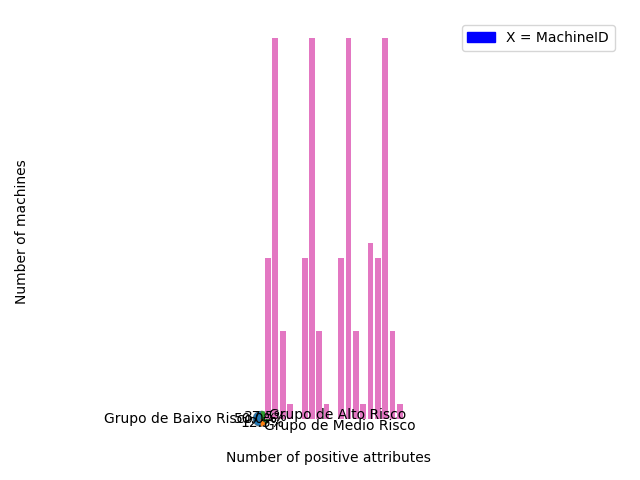
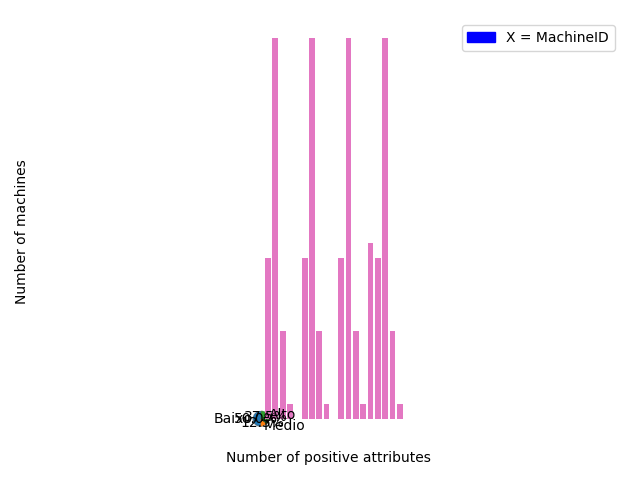
Starting the work with the notifications table and functions

Changed region(s): [[0.4062, 0.8438, 0.6562, 0.9062], [0.1562, 0.8438, 0.375, 0.9062]]

diff --git a/templates/index.html b/templates/index.html
@@ -1,1 +1,88 @@
-<div>Teste</div>
+{% extends 'admin/master.html' %}
+{% block head_css %}
+{{ super() }}
+
+{% endblock head_css %}
+
+
+{% block body %}
+{{ super() }}
+				<div class="col-lg-3 col-md-6">
+					<div class ="panel panel-primary">
+						<div class="panel-heading">
+							<div class="row">
+								<div class="col-xs-3">
+									<i class="fa fa-comments fa-5x"></i>
+								</div>
+								<div class="col-xs-9 text-right">
+									<div class="huge">26</div>
+									<div>Maquinas compliance {{doido}} {{ doido }}</div>
+								</div>
+							</div>
+						</div>
+						<div>
+							<a href="#"><span class="pull-left">
+								<span class="panel-footer">
+									
+								</span>
+							</span></a>
+						</div>
+						<img src="/static/safe_pie.png" alt="" class="img-responsive center-block" />
+						<a href="#">
+							<div class="panel-footer">
+								<span class="pull-left"> View Details</span>
+								<span class="pull-right"><i class="fa fa-arrow-circle-right"></i></span>
+								<div class="clearfix"></div>
+							</div>
+						</a>
+					</div>
+				</div>
+				<div class="col-lg-3 col-md-6">
+					<div class ="panel panel-info">
+						<div class="panel-heading">
+							<div class="row">
+								<div class="col-xs-3">
+									<i class="fa fa-comments fa-5x"></i>
+								</div>
+								<div class="col-xs-9 text-right">
+									<div class="huge">3,9</div>
+									<div>Nivel de severidade</div>
+								</div>
+							</div>
+						</div>	
+						<img src="/static/pie_severity.png" alt="" class="img-responsive center-block" />
+						<a href="#">
+							<div class="panel-footer">
+								<span class="pull-left"> View Details</span>
+								<span class="pull-right"><i class="fa fa-arrow-circle-right"></i></span>
+								<div class="clearfix"></div>
+							</div>
+						</a>
+					</div>
+				</div>
+				<div class="col-lg-3 col-md-6">
+					<div class ="panel panel-warning">
+						<div class="panel-heading">
+							<div class="row">
+								<div class="col-xs-3">
+									<i class="fa fa-comments fa-5x"></i>
+								</div>
+								<div class="col-xs-9 text-right">
+									<div class="huge">52</div>
+									<div>Escaneando no momento</div>
+								</div>
+							</div>
+						</div>	
+						<button class="btn btn-danger" type="button">
+  Faltando <span class="badge">4</span>
+</button>
+						<a href="#">
+							<div class="panel-footer">
+								<span class="pull-left">  {{variavel}} View Details</span>
+								<span class="pull-right"><i class="fa fa-arrow-circle-right"></i></span>
+								<div class="clearfix"></div>
+							</div>
+						</a>
+					</div>
+				</div>
+{% endblock body %}

diff --git a/admin/index.html b/admin/index.html
@@ -16,13 +16,69 @@
 								</div>
 								<div class="col-xs-9 text-right">
 									<div class="huge">26</div>
-									<div>Maquinas {{doido}}compliance</div>
+									<div>Maquinas compliance</div>
 								</div>
 							</div>
-						</div>	
+						</div>
+						<div>
+							<a href="#"><span class="pull-left">
+								<span class="panel-footer">
+									
+								</span>
+							</span></a>
+						</div>
+						<img src="/static/safe_pie.png" alt="" class="img-responsive center-block" />
 						<a href="#">
 							<div class="panel-footer">
 								<span class="pull-left"> View Details</span>
+								<span class="pull-right"><i class="fa fa-arrow-circle-right"></i></span>
+								<div class="clearfix"></div>
+							</div>
+						</a>
+					</div>
+				</div>
+				<div class="col-lg-3 col-md-6">
+					<div class ="panel panel-info">
+						<div class="panel-heading">
+							<div class="row">
+								<div class="col-xs-3">
+									<i class="fa fa-comments fa-5x"></i>
+								</div>
+								<div class="col-xs-9 text-right">
+									<div class="huge">3,9</div>
+									<div>Nivel de severidade</div>
+								</div>
+							</div>
+						</div>	
+						<img src="/static/pie_severity.png" alt="" class="img-responsive center-block" />
+						<a href="#">
+							<div class="panel-footer">
+								<span class="pull-left"> View Details</span>
+								<span class="pull-right"><i class="fa fa-arrow-circle-right"></i></span>
+								<div class="clearfix"></div>
+							</div>
+						</a>
+					</div>
+				</div>
+				<div class="col-lg-3 col-md-6">
+					<div class ="panel panel-warning">
+						<div class="panel-heading">
+							<div class="row">
+								<div class="col-xs-3">
+									<i class="fa fa-comments fa-5x"></i>
+								</div>
+								<div class="col-xs-9 text-right">
+									<div class="huge">52</div>
+									<div>Escaneando no momento</div>
+								</div>
+							</div>
+						</div>	
+						<button class="btn btn-danger" type="button">
+  Faltando <span class="badge">4</span>
+</button>
+						<a href="#">
+							<div class="panel-footer">
+								<span class="pull-left">  {{variavel}} View Details</span>
 								<span class="pull-right"><i class="fa fa-arrow-circle-right"></i></span>
 								<div class="clearfix"></div>
 							</div>

diff --git a/apiserver.py b/apiserver.py
@@ -137,10 +137,15 @@ class NotificationsView(BaseView):
 	def index(self):
 		return self.render('admin/notify.html', doido="doido")
 
+class HomeView(ModelView):
+	@expose('/admin')
+	def home(self):
+		return render_template('index.html', variavel="doido")
+
 class AdminView(BaseView):
 	@expose('/')
 	def admin(self):
-		return render_template('admin/index.html', doido="doido")
+		return render_template('index.html', doido="doido")
 
 
 path = op.join(op.dirname(__file__), 'static')
@@ -333,7 +338,6 @@ def testelogin():
 	if request.method == 'POST':
 		return 
 
-
 @app.route('/')
 def index():
 	#pegar o user com um formulario
@@ -386,4 +390,5 @@ def deleteRequestHello():
 	return "Deleting your hard drive.....haha just kidding! I received a DELETE request!"
 
 app.run(host='0.0.0.0')
+
 

diff --git a/dbmodel.py b/dbmodel.py
@@ -22,6 +22,13 @@ file_path = os.path.join(basedir, 'static')
 Base = declarative_base()
 
 
+class Notifications(Base):
+    __tablename__ = "notifications"
+    id = Column(Integer, primary_key=True)
+    evento = Column(String)
+    source = Column(String)
+    tempo = Column(DateTime, server_default=func.now())
+
 class Image(Base):
     __tablename__ = "image"
     id = Column(Integer, primary_key=True)

diff --git a/graphsauxiliary.py b/graphsauxiliary.py
@@ -85,7 +85,7 @@ def Generate_severity_plot():
 
 def Generate_pie_severity():
 	x,y,z = 0,0,0
-	labels = 'Grupo de Baixo Risco', 'Grupo de Medio Risco', 'Grupo de Alto Risco'
+	labels = 'Baixo', 'Medio', 'Alto'
 	severity_machine_list = []
 	id_machine_list = []
 	foundmachines = machinehandler.get_all_machines(session)
